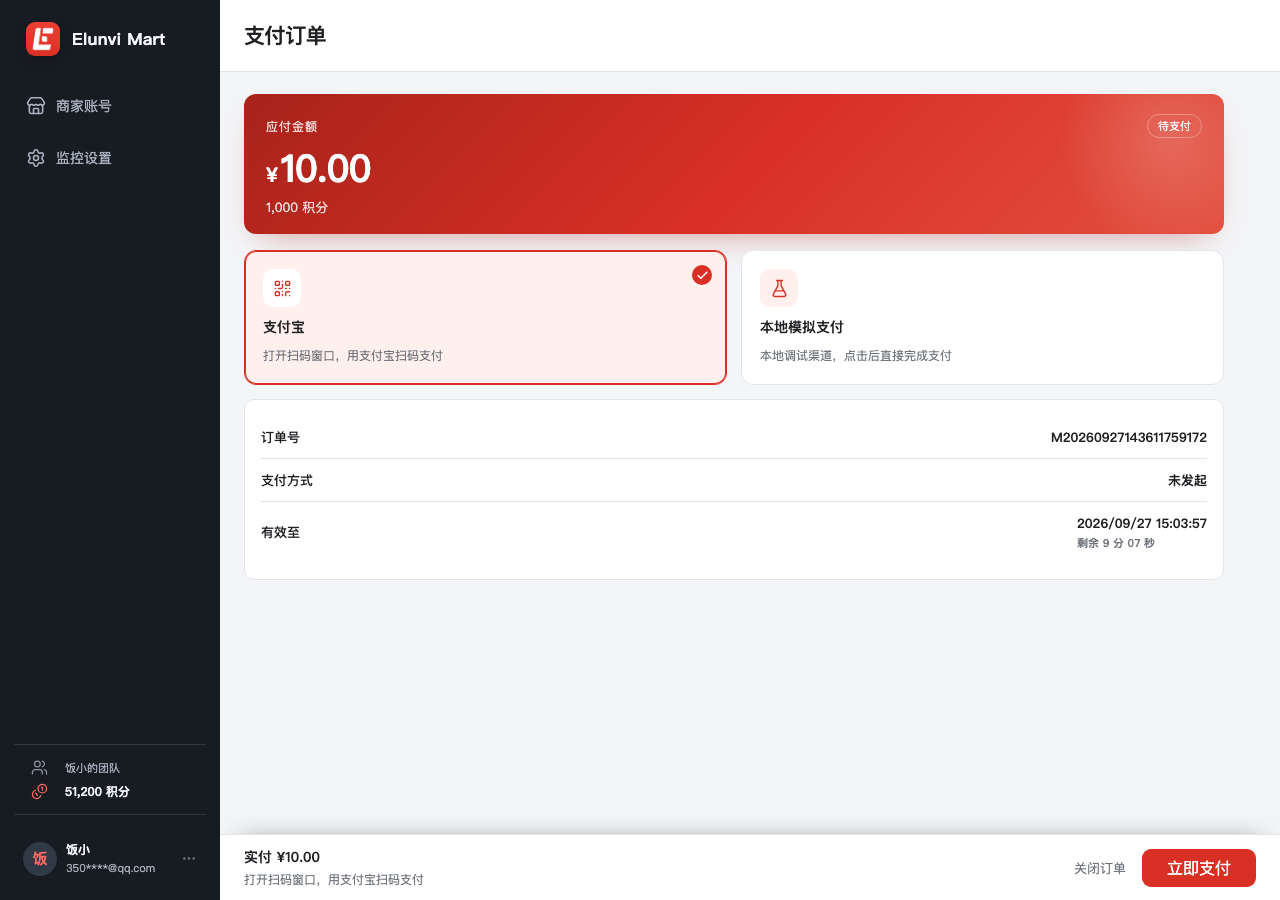
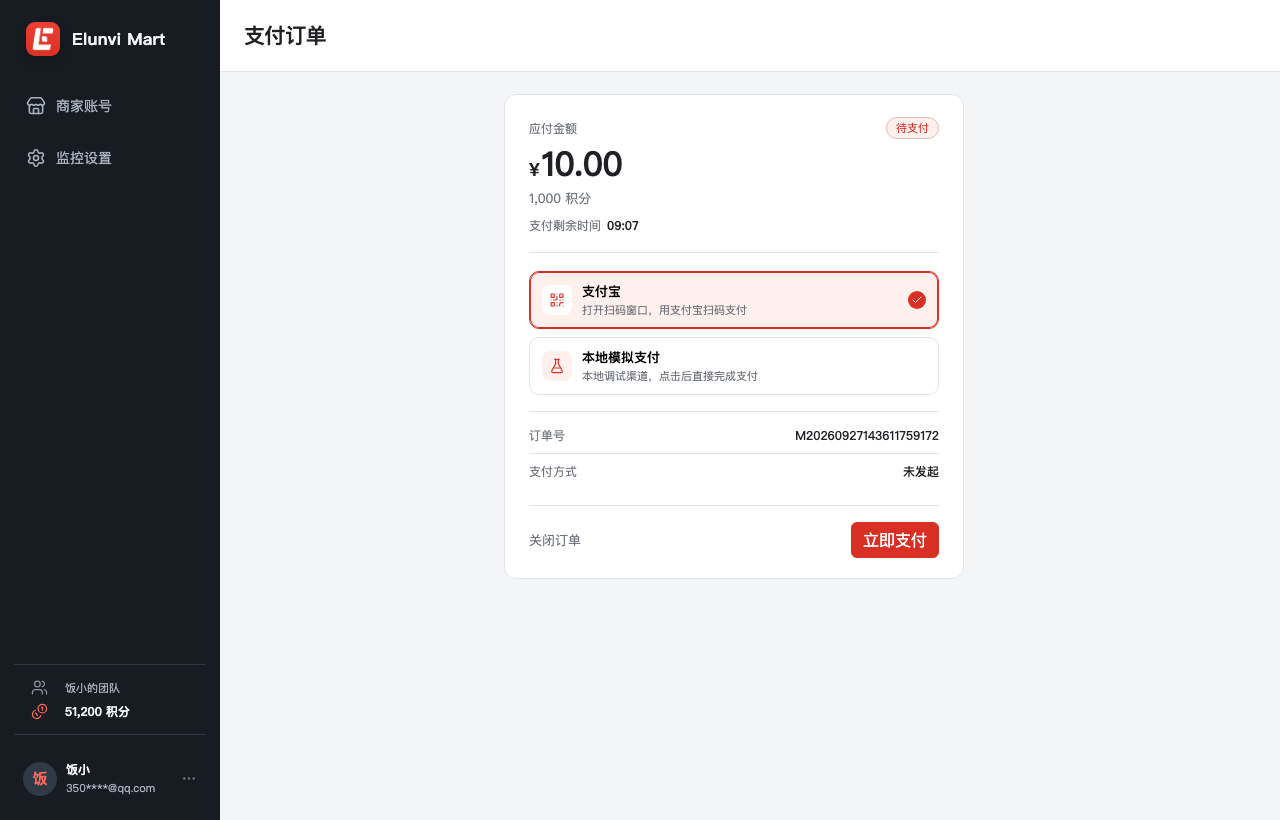
style(mart): collapse the payment page into a compact alipay-style sheet
单张 460px 卡片居中：金额（34px 深色，不再用红色渐变横幅）+ 商品 + 支付剩余
时间(mm:ss，最后两分钟标红) → 二维码 → 订单信息紧排 12px 行 → 卡片底部
「关闭订单」+ 一个主按钮；渠道改成一行一个的紧凑选项。去掉固定底栏与吸底留白。

diff --git a/src/renderer/app.js b/src/renderer/app.js
@@ -149,6 +149,8 @@ const elements = {
   walletOrderCount: document.querySelector('#wallet-order-count'),
   paymentHero: document.querySelector('#payment-hero'),
   paymentHeroLabel: document.querySelector('#payment-hero-label'),
+  paymentSheet: document.querySelector('#payment-sheet'),
+  paymentCountdown: document.querySelector('#payment-countdown'),
   paymentStatusChip: document.querySelector('#payment-status-chip'),
   paymentHeroAmount: document.querySelector('#payment-hero-amount'),
   paymentHeroSubject: document.querySelector('#payment-hero-subject'),
@@ -1800,30 +1802,29 @@ function paymentChannelLabel(channel) {
   return PAYMENT_CHANNELS[channel]?.name || channel || '';
 }
 
-function formatRemaining(ms) {
+function formatClock(ms) {
   const total = Math.max(0, Math.round(ms / 1000));
   const minutes = Math.floor(total / 60);
-  const seconds = total % 60;
-  if (minutes >= 60) return `${Math.floor(minutes / 60)} 小时 ${minutes % 60} 分`;
-  return `${minutes} 分 ${String(seconds).padStart(2, '0')} 秒`;
+  return `${String(minutes).padStart(2, '0')}:${String(total % 60).padStart(2, '0')}`;
 }
 
 function renderPaymentOrder() {
   const { order, attempt } = state.purchase;
   stopOrderExpireCountdown();
   elements.paymentSimulate.hidden = true;
-  elements.paymentCloseOrder.hidden = false;
+  elements.paymentCloseOrder.hidden = true;
   elements.paymentRefreshOrder.hidden = true;
   elements.paymentInfoActions.hidden = true;
-  elements.paymentHero.hidden = !order;
+  elements.paymentSheet.hidden = !order;
   elements.paymentInfoCard.hidden = !order;
   elements.paymentQrCard.hidden = true;
   elements.paymentChannels.hidden = true;
   elements.paymentPurchaseBar.hidden = true;
+  elements.paymentCountdown.hidden = true;
   if (!order) return;
 
-  elements.paymentHero.classList.toggle('is-done', order.status === 2 || order.status === 4);
-  elements.paymentHero.classList.toggle('is-inactive', order.status === 3 || order.status === 5);
+  elements.paymentSheet.classList.toggle('is-done', order.status === 2 || order.status === 4);
+  elements.paymentSheet.classList.toggle('is-inactive', order.status === 3 || order.status === 5);
   elements.paymentHeroLabel.textContent = order.status === 1
     ? '应付金额'
     : (order.status === 2 || order.status === 4) ? '实付金额' : '订单金额';
@@ -1836,18 +1837,18 @@ function renderPaymentOrder() {
     document.createTextNode((Number(order.amount_fen || 0) / 100).toFixed(2))
   );
   elements.paymentHeroSubject.textContent = purchaseSubject();
+  elements.paymentCountdown.hidden = order.status !== 1;
 
-  // 金额、商品、状态都在 hero 上，这里只留订单自身的信息
+  // 金额、商品、倒计时在上面，这里只留订单自身的信息
   const detail = elements.paymentOrderDetail;
   detail.replaceChildren();
   const rows = [
     ['订单号', order.order_no],
     ['支付方式', paymentChannelLabel(attempt?.channel || order.channel) || '未发起']
   ];
-  if (order.status === 1) rows.push(['有效至', formatDate(order.expire_at, '待确认'), true]);
   if (order.paid_at) rows.push(['支付时间', formatDate(order.paid_at, '待确认')]);
   if (order.closed_at) rows.push(['关闭时间', formatDate(order.closed_at, '待确认')]);
-  for (const [label, value, withCountdown] of rows) {
+  for (const [label, value] of rows) {
     const row = document.createElement('div');
     row.className = 'finance-row';
     const left = document.createElement('div');
@@ -1857,16 +1858,11 @@ function renderPaymentOrder() {
     const right = document.createElement('div');
     right.className = 'finance-row-value';
     right.textContent = value;
-    if (withCountdown) {
-      const countdown = document.createElement('small');
-      countdown.id = 'payment-expire-countdown';
-      right.append(countdown);
-    }
     row.append(left, right);
     detail.append(row);
   }
 
-  // 待支付的动作全在底栏；已支付后还要能主动查一次单
+  // 待支付的动作全在卡片底部；已支付后还要能主动查一次单
   if (order.status === 2) {
     elements.paymentRefreshOrder.hidden = false;
     elements.paymentInfoActions.hidden = false;
@@ -1896,7 +1892,7 @@ function renderPaymentQrCard(attempt) {
   card.hidden = false;
 }
 
-// 渠道做成可选卡片，支付只由底部固定栏那一个主按钮发起
+// 渠道是一行一个的紧凑选项，支付由卡片底部那一个主按钮发起
 function renderPaymentChannels() {
   const grid = elements.paymentChannels;
   grid.replaceChildren();
@@ -1905,24 +1901,26 @@ function renderPaymentChannels() {
     const selected = state.purchase.channel === key;
     const option = document.createElement('button');
     option.type = 'button';
-    option.className = `plan-option${selected ? ' is-selected' : ''}`;
+    option.className = `payment-channel${selected ? ' is-selected' : ''}`;
     option.setAttribute('aria-pressed', selected ? 'true' : 'false');
     option.addEventListener('click', () => {
       state.purchase.channel = key;
       renderPaymentOrder();
     });
     const icon = document.createElement('span');
-    icon.className = 'option-icon';
+    icon.className = 'payment-channel-icon';
     icon.append(createIcon(meta.icon));
-    const title = document.createElement('h4');
+    const copy = document.createElement('span');
+    copy.className = 'payment-channel-copy';
+    const title = document.createElement('strong');
     title.textContent = meta.name;
-    const hint = document.createElement('p');
-    hint.className = 'option-hint';
+    const hint = document.createElement('small');
     hint.textContent = meta.hint;
-    option.append(icon, title, hint);
+    copy.append(title, hint);
+    option.append(icon, copy);
     if (selected) {
       const check = document.createElement('span');
-      check.className = 'option-check';
+      check.className = 'payment-channel-check';
       check.append(createIcon('check'));
       option.append(check);
     }
@@ -1937,39 +1935,30 @@ function renderPaymentPurchaseBar(attempt) {
   bar.hidden = true;
   if (!order || order.status !== 1) return;
 
-  const summary = document.createElement('div');
-  summary.className = 'purchase-summary';
-  const total = document.createElement('strong');
-  total.textContent = `实付 ${formatYuan(order.amount_fen)}`;
-  const meta = document.createElement('small');
-  summary.append(total, meta);
   const actions = document.createElement('div');
-  actions.className = 'purchase-actions';
+  actions.className = 'payment-footer-links';
+  elements.paymentCloseOrder.hidden = false;
   actions.append(elements.paymentCloseOrder);
 
   if (!attempt) {
-    meta.textContent = PAYMENT_CHANNELS[state.purchase.channel]?.hint || '';
     const submit = document.createElement('button');
     submit.className = 'button button-primary';
     submit.type = 'button';
     submit.textContent = '立即支付';
     submit.addEventListener('click', () => void beginPayment(state.purchase.channel));
-    actions.append(submit);
+    bar.append(actions, submit);
   } else if (attempt.channel === 'mock') {
-    meta.textContent = '本地调试渠道，点击后立即完成支付';
     elements.paymentSimulate.hidden = false;
-    actions.append(elements.paymentSimulate);
+    bar.append(actions, elements.paymentSimulate);
   } else if (attempt.payment_params?.qr_code) {
-    meta.textContent = '扫码支付后会自动确认';
     const confirm = document.createElement('button');
     confirm.className = 'button button-primary';
     confirm.type = 'button';
     confirm.textContent = '我已完成支付';
     confirm.addEventListener('click', () => void refreshPaymentOrder(true, { sync: true }));
-    actions.append(confirm);
+    bar.append(actions, confirm);
   } else if (attempt.payment_params?.pay_url) {
     // 没抓到码串就退回独立扫码窗口这条老路
-    meta.textContent = '扫码完成后自动确认，也可以手动查询';
     const open = document.createElement('button');
     open.className = 'button button-primary';
     open.type = 'button';
@@ -1982,12 +1971,11 @@ function renderPaymentPurchaseBar(attempt) {
         showNotice(error.message || '无法打开支付窗口', true);
       }
     });
-    actions.append(open);
+    bar.append(actions, open);
   } else {
     return;
   }
 
-  bar.append(summary, actions);
   bar.hidden = false;
 }
 
@@ -2001,7 +1989,7 @@ function startOrderExpireCountdown(order) {
       return;
     }
     const remain = Date.parse(order.expire_at) - Date.now();
-    node.textContent = remain > 0 ? `剩余 ${formatRemaining(remain)}` : '已超时，等待关闭';
+    node.textContent = remain > 0 ? formatClock(remain) : '已超时，等待关闭';
     node.classList.toggle('is-urgent', remain > 0 && remain <= 120000);
   };
   tick();

diff --git a/src/renderer/styles.css b/src/renderer/styles.css
@@ -327,34 +327,46 @@ html,body{height:100%;overflow:hidden}.app-shell{height:100vh;min-height:0;overf
 .team-chip.is-active{border-color:#efb8b2;color:var(--accent);background:var(--accent-soft);font-weight:600}
 .team-chip .chip-role{padding:1px 8px;border-radius:999px;color:var(--muted);background:var(--soft);font-size:11px;font-weight:400}
 .team-chip.is-active .chip-role{color:var(--accent);background:#fff}
-#payment-view{padding-bottom:88px}
-.payment-hero{position:relative;overflow:hidden;padding:20px 22px 18px;border-radius:12px;background:linear-gradient(135deg,#a8231b 0%,var(--accent) 52%,#e2503f 100%);color:#fff;box-shadow:0 14px 34px -18px rgba(168,35,27,.55)}
-.payment-hero:after{content:"";position:absolute;right:-60px;top:-70px;width:230px;height:230px;border-radius:50%;background:radial-gradient(circle,rgba(255,255,255,.18),transparent 68%)}
-.payment-hero.is-done{background:linear-gradient(135deg,#136b4b 0%,#1c8a5f 52%,#33b381 100%);box-shadow:0 14px 34px -18px rgba(19,107,75,.5)}
-.payment-hero.is-inactive{background:var(--soft);color:var(--text);box-shadow:none}
-.payment-hero.is-inactive:after{background:none}
-.payment-hero-head{position:relative;display:flex;align-items:center;justify-content:space-between;gap:12px}
-.payment-hero-label{font-size:12px;letter-spacing:.08em;color:rgba(255,255,255,.82)}
-.payment-hero.is-inactive .payment-hero-label{color:var(--muted)}
-.payment-status-chip{display:inline-flex;align-items:center;gap:6px;padding:3px 10px;border:1px solid rgba(255,255,255,.3);border-radius:999px;font-size:11px;color:#fff}
-.payment-hero.is-inactive .payment-status-chip{border-color:var(--line);color:var(--muted)}
-.payment-hero-value{position:relative;display:flex;align-items:baseline;gap:3px;margin-top:12px;font-size:38px;font-weight:700;line-height:1;letter-spacing:-.02em;font-variant-numeric:tabular-nums}
-.payment-hero-value .currency{font-size:20px;font-weight:600}
-.payment-hero-sub{position:relative;margin-top:10px;font-size:13px;color:rgba(255,255,255,.82)}
-.payment-hero.is-inactive .payment-hero-sub{color:var(--muted)}
-.payment-info-card #payment-order-detail{color:var(--text);font-size:13px;word-break:break-all}
-.payment-qr-card{display:grid;justify-items:center;gap:10px;padding:18px 16px 16px;text-align:center}
-.payment-qr-frame{display:grid;place-items:center;padding:6px;border:1px solid var(--line);border-radius:12px;background:#fff}
-.payment-qr-frame svg{display:block;width:200px;height:200px}
-.payment-qr-title{font-size:14px;font-weight:600;color:var(--text)}
-.payment-info-actions{display:flex;align-items:center;gap:18px;margin-top:12px;padding-top:14px;border-top:1px solid var(--line)}
-.payment-info-actions[hidden]{display:none}
-.finance-row-value small.is-urgent{color:var(--accent)}
-.plan-option .option-icon{display:grid;place-items:center;width:38px;height:38px;border-radius:10px;color:var(--accent);background:var(--accent-soft)}
-.plan-option.is-selected .option-icon{background:#fff}
-.plan-option .option-icon svg{width:19px;height:19px}
-.plan-option .option-hint{margin:0;color:var(--muted);font-size:12px;line-height:1.55}
-.purchase-actions{display:flex;align-items:center;gap:16px}
+#payment-view{padding-bottom:34px}
+.payment-sheet{max-width:460px;margin:0 auto;padding:22px 24px 20px;border:1px solid var(--line);border-radius:12px;background:var(--surface)}
+.payment-sheet[hidden]{display:none}
+.payment-amount-head{display:flex;align-items:center;justify-content:space-between;gap:12px}
+.payment-amount-label{font-size:12px;color:var(--muted)}
+.payment-status-chip{padding:2px 9px;border:1px solid #efb8b2;border-radius:999px;color:var(--accent);background:var(--accent-soft);font-size:11px}
+.payment-sheet.is-done .payment-status-chip{border-color:#bfe3d1;color:#176b4e;background:#f0faf5}
+.payment-sheet.is-inactive .payment-status-chip{border-color:var(--line);color:var(--muted);background:var(--soft)}
+.payment-amount-value{display:flex;align-items:baseline;gap:2px;margin-top:8px;font-size:34px;font-weight:700;line-height:1.05;letter-spacing:-.02em;font-variant-numeric:tabular-nums}
+.payment-amount-value .currency{font-size:18px;font-weight:600}
+.payment-amount-sub{margin-top:6px;color:var(--muted);font-size:13px}
+.payment-countdown{display:flex;align-items:baseline;gap:6px;margin-top:10px;color:var(--muted);font-size:12px}
+.payment-countdown[hidden]{display:none}
+.payment-countdown strong{color:var(--text);font-weight:600;font-variant-numeric:tabular-nums}
+.payment-countdown strong.is-urgent{color:var(--accent)}
+.payment-qr-block{display:grid;justify-items:center;gap:10px;margin-top:18px;padding-top:18px;border-top:1px solid var(--line)}
+.payment-qr-frame{display:grid;place-items:center;padding:6px;border:1px solid var(--line);border-radius:10px;background:#fff}
+.payment-qr-frame svg{display:block;width:176px;height:176px}
+.payment-qr-title{font-size:13px;font-weight:600;color:var(--text)}
+.payment-channel-block{display:grid;gap:8px;margin-top:18px;padding-top:18px;border-top:1px solid var(--line)}
+.payment-channel{display:flex;align-items:center;gap:10px;padding:10px 12px;border:1px solid var(--line);border-radius:10px;background:var(--surface);text-align:left;cursor:pointer}
+.payment-channel:hover{border-color:#e5c9c6}
+.payment-channel.is-selected{border-color:var(--accent);background:var(--accent-soft);box-shadow:inset 0 0 0 1px var(--accent)}
+.payment-channel-icon{display:grid;place-items:center;width:30px;height:30px;border-radius:8px;color:var(--accent);background:var(--accent-soft)}
+.payment-channel.is-selected .payment-channel-icon{background:#fff}
+.payment-channel-icon svg{width:16px;height:16px}
+.payment-channel-copy{display:grid;gap:2px;min-width:0}
+.payment-channel-copy strong{font-size:13px;font-weight:600}
+.payment-channel-copy small{color:var(--muted);font-size:11px}
+.payment-channel-check{display:grid;place-items:center;width:18px;height:18px;margin-left:auto;border-radius:50%;color:#fff;background:var(--accent)}
+.payment-channel-check svg{width:12px;height:12px}
+.payment-meta{margin-top:16px;padding-top:6px;border-top:1px solid var(--line)}
+.payment-meta #payment-order-detail{color:var(--text);font-size:12px;word-break:break-all}
+.payment-meta .finance-row{padding:9px 0}
+.payment-meta .finance-row strong{color:var(--muted);font-size:12px;font-weight:400}
+.payment-meta .finance-row-value{font-size:12px;font-weight:500}
+.payment-meta-actions{display:flex;align-items:center;gap:16px;padding-top:8px}
+.payment-meta-actions[hidden]{display:none}
+.payment-footer{display:flex;align-items:center;justify-content:space-between;gap:14px;margin-top:16px;padding-top:16px;border-top:1px solid var(--line)}
+.payment-footer-links{display:flex;align-items:center;gap:16px}
 .plan-badge{position:absolute;top:14px;right:14px;padding:3px 8px;border:1px solid #efb8b2;border-radius:999px;color:var(--accent);background:#fff;font-size:11px}
 @media(max-width:1240px){.plan-grid-5{grid-template-columns:repeat(auto-fit,minmax(190px,1fr))}}
 @media(max-width:1000px){.team-hero{grid-template-columns:1fr}.plan-grid{grid-template-columns:1fr}}

diff --git a/src/renderer/index.html b/src/renderer/index.html
@@ -187,25 +187,28 @@
         </section>
 
         <section class="view platform-view" id="payment-view" hidden>
-          <div class="payment-hero" id="payment-hero" hidden>
-            <div class="payment-hero-head">
-              <span class="payment-hero-label" id="payment-hero-label">应付金额</span>
-              <span class="payment-status-chip" id="payment-status-chip"></span>
+          <div class="payment-sheet" id="payment-sheet" hidden>
+            <div class="payment-amount-block" id="payment-hero">
+              <div class="payment-amount-head">
+                <span class="payment-amount-label" id="payment-hero-label">应付金额</span>
+                <span class="payment-status-chip" id="payment-status-chip"></span>
+              </div>
+              <div class="payment-amount-value" id="payment-hero-amount"></div>
+              <div class="payment-amount-sub" id="payment-hero-subject"></div>
+              <div class="payment-countdown" id="payment-countdown" hidden><span>支付剩余时间</span><strong id="payment-expire-countdown"></strong></div>
             </div>
-            <div class="payment-hero-value" id="payment-hero-amount"></div>
-            <div class="payment-hero-sub" id="payment-hero-subject"></div>
+            <div class="payment-qr-block" id="payment-qr-card" hidden>
+              <div class="payment-qr-frame" id="payment-qr-code" role="img" aria-label="支付宝支付二维码"></div>
+              <strong class="payment-qr-title">打开支付宝扫一扫</strong>
+              <button class="button-link" type="button" id="payment-qr-browser">在浏览器打开</button>
+            </div>
+            <div class="payment-channel-block" id="payment-channels" role="radiogroup" aria-label="支付方式" hidden></div>
+            <div class="payment-meta" id="payment-info-card" hidden>
+              <div class="finance-list" id="payment-order-detail"></div>
+              <div class="payment-meta-actions" id="payment-info-actions" hidden></div>
+            </div>
+            <div class="payment-footer" id="payment-purchase-bar" hidden></div>
           </div>
-          <section class="finance-card payment-qr-card" id="payment-qr-card" hidden>
-            <div class="payment-qr-frame" id="payment-qr-code" role="img" aria-label="支付宝支付二维码"></div>
-            <strong class="payment-qr-title">打开支付宝扫一扫</strong>
-            <button class="button-link" type="button" id="payment-qr-browser">在浏览器打开</button>
-          </section>
-          <div class="plan-grid option-grid" id="payment-channels" role="radiogroup" aria-label="支付方式" hidden></div>
-          <section class="finance-card payment-info-card" id="payment-info-card" hidden>
-            <div class="finance-list" id="payment-order-detail"></div>
-            <div class="payment-info-actions" id="payment-info-actions" hidden></div>
-          </section>
-          <div class="purchase-bar" id="payment-purchase-bar" hidden></div>
           <button class="button-link is-primary" type="button" id="payment-refresh-order" hidden>查询支付状态</button>
           <button class="button-link" type="button" id="payment-close-order" hidden>关闭订单</button>
           <button class="button button-primary" type="button" id="payment-simulate" hidden>模拟支付成功</button>

diff --git a/test/renderer-platform.test.js b/test/renderer-platform.test.js
@@ -97,6 +97,8 @@ test('teams, wallet and payment surfaces are driven by the mart client', () => {
   assert.match(html, /id="payment-channels"/);
   assert.match(html, /id="payment-purchase-bar"/);
   assert.match(html, /id="payment-info-actions"/);
+  assert.match(html, /id="payment-sheet"/);
+  assert.match(html, /id="payment-countdown"/);
   assert.match(html, /id="payment-qr-card"/);
   assert.match(html, /id="payment-qr-code"/);
   assert.match(html, /id="payment-qr-browser"/);
